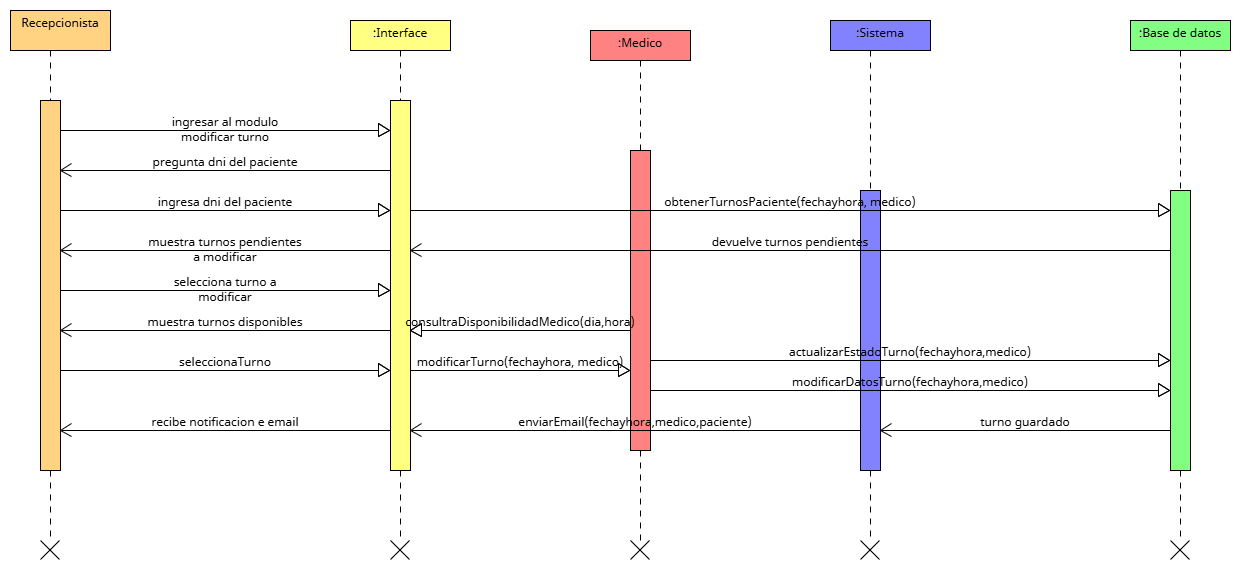
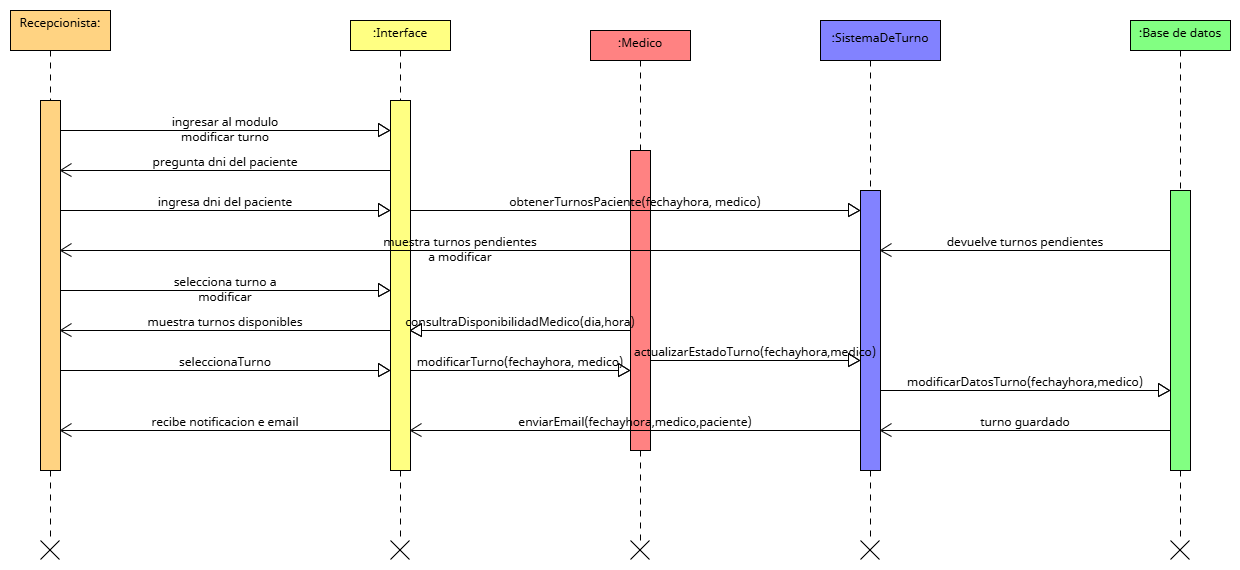
actividad final

diff --git a/DOOEncapsulamiento.md b/DOOEncapsulamiento.md
@@ -1,0 +1,87 @@
+# Encapsulamiento
+
+El encapsulamiento implica ocultar los atributos internos de una clase, exponiendo únicamente los métodos necesarios para interactuar con el objeto. Así, se protege el estado del objeto, se mejora la seguridad del sistema y se permite mayor control sobre los datos.
+
+**Responsabilidad Única (SRP):** Cada clase mantiene su responsabilidad bien definida.  
+**Abierto/Cerrado (OCP):** Se puede modificar internamente sin afectar al resto del sistema.  
+**Segregación de Interfaces (ISP):** Se exponen sólo los métodos necesarios, evitando interfaces infladas.  
+**Patrón Adapter:** El sistema accede a datos encapsulados a través de interfaces o métodos públicos.
+
+## Ejemplo en el proyecto
+
+Encapsulamiento se demuestra al mantener los datos sensibles privados y permitir su acceso/modificación sólo mediante métodos públicos.
+
+![Herencia](/img/DOOEncapsulamiento.png)
+
+- [Imagen](https://drive.google.com/file/d/16dFcXYDUgxTCkK3NoTwxJERw9iIU2WwP/view?usp=drive_link)
+
+## Ejemplo de Código
+
+    Clase Usuario {
+            privado nombreCompleto
+            privado documento
+            privado email
+            privado password
+            privado fechaNacimiento
+            privado telefono
+
+        metodo obtenerNombreCompleto() {
+            retornar nombreCompleto
+        }
+
+        metodo actualizarNombreCompleto(nuevoNombre) {
+            nombreCompleto = nuevoNombre
+        }
+
+        metodo obtenerEmail() {
+            retornar email
+        }
+
+        metodo actualizarEmail(nuevoEmail) {
+            si esValido(nuevoEmail) {
+                email = nuevoEmail
+            }
+        }
+
+        metodo obtenerTelefono() {
+            retornar telefono
+        }
+
+        metodo actualizarTelefono(nuevoTelefono) {
+            si esValido(nuevoTelefono) {
+                telefono = nuevoTelefono
+            }
+        }
+
+        metodo actualizarContacto(nuevoTelefono, nuevoEmail) {
+            actualizarTelefono(nuevoTelefono)
+            actualizarEmail(nuevoEmail)
+        }
+    }
+
+    Clase Paciente hereda Usuario {
+        metodo obtenerHistorial() {
+            // Retorna historial del paciente
+        }
+    }
+
+    Clase Medico hereda Usuario {
+        metodo obtenerDisponibilidad() {
+            // Retorna horarios disponibles
+        }
+    }
+
+    Clase Recepcionista hereda Usuario {
+        metodo confirmarTurno() {
+            // Confirma un turno en el sistema
+        }
+
+        metodo cancelarTurno() {
+            // Cancela un turno
+        }
+
+        metodo modificarTurno() {
+            // Modifica los datos de un turno
+        }
+
+    }

diff --git a/DOOHerencia.md b/DOOHerencia.md
@@ -1,0 +1,55 @@
+# Herencia
+
+La herencia permite que una clase hija reutilice atributos y métodos de una clase padre. Promueve la reutilización de código, la extensibilidad y la jerarquía de clases.
+
+**Sustitución de Liskov (LSP):** Las subclases Paciente, Medico y Paciente pueden usarse como Usuario sin romper el sistema.  
+**Responsabilidad Única (SRP):** Permite dividir responsabilidades comunes en Usuario y extenderlas de forma especializada.  
+**Abierto/Cerrado (OCP):** Se pueden crear nuevas clases hijas (ej: Administrador) sin modificar Usuario.  
+**Factory Method:** Al permitir crear distintas subclases de Turno, este patrón aprovecha la herencia para instanciar objetos de tipo TurnoPresencial, TurnoVirtual, etc.
+
+## Ejemplo en el proyecto
+
+La clase Usuario encapsula atributos comunes como nombreCompleto,documento, email, password,fechanacimiento,telefono y métodos como actualizarContacto(). Las subclases Recepcionista, Paciente y Medico heredan estas propiedades y agregan comportamientos específicos. Esto evita la repetición de código y permite reutilizar lógica centralizada.
+
+![Herencia](/img/DOOHerencia.png)
+
+- [Imagen](https://drive.google.com/file/d/1kDia9P6W5sv4KmdzHDFKuyJzxwQCbIbJ/view?usp=drive_link)
+
+## Ejemplo de pseudocódigo
+
+    Clase Usuario {
+        privado nombreCompleto
+        privado documento
+        privado email
+        privado password
+        privado fechanacimiento
+        privado telefono
+
+        metodo actualizarContacto(telefono, email){
+        }
+
+    }
+
+    Clase Paciente hereda Usuario {
+        metodo obtenerHistorial() {
+        }
+
+    }
+
+    Clase Medico hereda Usuario {
+        metodo obtenerDisponibilidad() {
+
+        }
+    }
+     Clase Recepcionista hereda Usuario {
+        metodo confirmarTurno() {
+        }
+        metodo cancelarTurno() {
+        }
+        metodo modificarTurno() {
+        }
+        metodo consultarHistorialPaciente() {
+        }
+        metodo consultarDIsponibilidadMedico() {
+        }
+    }

diff --git a/DOOAbstraccion.md b/DOOAbstraccion.md
@@ -1,0 +1,57 @@
+# Abstracción
+
+La abstracción se refiere a mostrar sólo lo esencial de un objeto, ocultando los detalles internos. A través de clases abstractas o interfaces, se define un contrato de comportamiento sin especificar su implementación concreta.
+
+**Responsabilidad Única (SRP):** Las clases se centran en una única tarea.  
+**Abierto/Cerrado (OCP):** Nuevas implementaciones se pueden agregar sin modificar las existentes.  
+**Inversión de Dependencias (DIP):** Las clases dependen de abstracciones, no de detalles concretos.  
+Strategy: Define una interfaz común para validar turnos que puede tener múltiples implementaciones.
+
+## Ejemplo en el proyecto
+
+Usuario es una clase abstracta que define los atributos y métodos comunes.  
+Las clases Paciente, Medico y Recepcionista heredan de Usuario, lo que representa la abstracción de cada una especializas el comportamiento sin duplicar la estructura común.  
+Sólo se muestran los atributos clave y métodos públicos para resaltar el principio de abstracción (mostrar lo esencial, ocultar lo interno).
+
+![Abstracción](/img/DOOAbstraccion.png)
+
+- [Imagen](https://drive.google.com/file/d/1bOvQc_yEBqxL2_lUIoeRXuFWKb0klYVE/view?usp=drive_link)
+
+## Ejemplo de Código
+
+    Clase Usuario {
+        privado nombreCompleto
+        privado documento
+        privado email
+        privado password
+        privado fechanacimiento
+        privado telefono
+
+        metodo actualizarContacto(telefono, email){
+        }
+
+    }
+
+    Clase Paciente hereda Usuario {
+        metodo obtenerHistorial() {
+        }
+
+    }
+
+    Clase Medico hereda Usuario {
+        metodo obtenerDisponibilidad() {
+
+        }
+    }
+     Clase Recepcionista hereda Usuario {
+        metodo confirmarTurno() {
+        }
+        metodo cancelarTurno() {
+        }
+        metodo modificarTurno() {
+        }
+        metodo consultarHistorialPaciente() {
+        }
+        metodo consultarDIsponibilidadMedico() {
+        }
+    }

diff --git a/diagramas_de_secuencias.md b/diagramas_de_secuencias.md
@@ -1,7 +1,7 @@
 ## Diagramas de Secuencias
 
-- [Diagrama de Secuencia - Registrar un médico - Registro de un médico exitoso](https://drive.google.com/file/d/1URqT_IRJ5Zc1W_ix7GSrwqj7Yistl8Np/view?usp=drive_link)
-- [Diagrama de Secuencia - Registrar un paciente - Registro de paciente exitoso](https://drive.google.com/file/d/1XXxzXLaeJCG0VIah9ZZpK2XmFEEIgZLs/view?usp=drive_link)
-- [Diagrama de Secuencia - Asignar un turno médico - Asignación de un turno exitiso](https://drive.google.com/file/d/19fu6tWouxiYFPgA26Lx_JST4Nv9rxUyu/view?usp=drive_link)
-- [Diagrama de Secuencia - Modificar turno - Modificación de turno exitoso](https://drive.google.com/file/d/17AnJ_vQBhktUvDU-R9jVeQ0L9F05-W1f/view?usp=drive_link)
-- [Diagrama de Secuencia - Consultar historial de turnos - Consulta de turnos exitosa](https://drive.google.com/file/d/13R5ZULAJRpIVBqblfiNMZie6ToITPY_Q/view?usp=drive_link)
+- [Diagrama de Secuencia - Registrar un médico - Registro de un médico exitoso](https://drive.google.com/file/d/1ioPZokf47DczYJTuHkE-HM0mKmd-Byyf/view?usp=drive_link)
+- [Diagrama de Secuencia - Registrar un paciente - Registro de paciente exitoso](https://drive.google.com/file/d/13tGdpk2-vVAtG6JEwq0cdgoD1HRZdyhY/view?usp=drive_link)
+- [Diagrama de Secuencia - Asignar un turno médico - Asignación de un turno exitiso](https://drive.google.com/file/d/1lQq3yenRkkpVWd6x-Ts3X4MLSebZxv9N/view?usp=drive_link)
+- [Diagrama de Secuencia - Modificar turno - Modificación de turno exitoso](https://drive.google.com/file/d/16YxnjkIUqy3Q4Glk6W9EgYt1EHnquGWd/view?usp=drive_link)
+- [Diagrama de Secuencia - Consultar historial de turnos - Consulta de turnos exitosa](https://drive.google.com/file/d/1x_7gAOOHt8sqnHLuKBZAwlwOByonjBCi/view?usp=drive_link)

diff --git a/DOOPolimorfismo.md b/DOOPolimorfismo.md
@@ -1,0 +1,34 @@
+# Polimorfismo
+
+El polimorfismo permite que objetos diferentes respondan al mismo mensaje con comportamientos distintos. Esto facilita extender comportamientos sin modificar el código del cliente que los utiliza.  
+**Sustitución de Liskov (LSP):** Las subclases pueden sustituir a la clase base sin errores.
+**Abierto/Cerrado (OCP):** Nuevas variantes se incorporan sin tocar el código existente.
+**Factory Method:** Se basa en polimorfismo para instanciar diferentes tipos de Turno.
+
+## Ejemplo en el proyecto
+
+Aunque actualmente hay un solo tipo de Turno, el diseño permite extenderlo fácilmente. Si en el futuro se agrega TurnoVirtual, el sistema puede notificar de forma diferente sin modificar la lógica principal.
+
+![Polimorfismo](/img/DOOPolimorfismo.png)
+
+- [Imagen](https://drive.google.com/file/d/10eYW86xhXZaXLTUxPhnN5yLVDWcxwL-A/view?usp=drive_link)
+
+## Ejemplo de Código
+
+    Clase Turno {
+        metodo crearTurno() {
+
+        }
+    }
+
+    Clase TurnoVirtual hereda Turno {
+        metodo crearTurno() {
+            enviarEmail("Turno virtual")
+        }
+    }
+
+    Clase SobreTurno hereda Turno {
+        metodo crearTurno() {
+            enviarEmail("Este es un sobreturno")
+        }
+    }

diff --git a/diagramasUML.md b/diagramasUML.md
@@ -4,4 +4,4 @@
 - [Escenarios de Casos de Uso](escenarios_de_casos_de_uso.md)
 - [Diagramas de actividades](diagramas_de_actividades.md)
 - [Diagramas de secuencias](diagramas_de_secuencias.md)
-- [Diagrama de clases](https://drive.google.com/file/d/1TRtxBSFFAqPXqEXWDSd6WKlntAxjLXBK/view?usp=drive_link)
+- [Diagrama de clases](https://drive.google.com/file/d/150DpiFSP4DSdcqWpgnWdMt1EgBVHl20S/view?usp=drive_link)

diff --git a/anexos.md b/anexos.md
@@ -7,3 +7,4 @@
 - [Anexo - Aplicación de Patrón de Diseño creacional - Factory Method](patronDeDisenoCreacional.md)
 - [Anexo - Aplicación de Patrón de Diseño estructural - Adapter](patronDeDisenoEstructural.md)
 - [Anexo - Aplicación de Patrón de Diseño de comportamiento - Strategy](patronDeDisenoDeComportamiento.md)
+- [Anexo - Fundamentos del Diseño Orientado a Objetos ](fundamentosDOO.md)

diff --git a/fundamentosDOO.md b/fundamentosDOO.md
@@ -1,0 +1,9 @@
+# Anexo - Fundamentos del Diseño Orientado a Objetos
+
+Una breve explicación de cuáles son los pilares o fundamentos del diseño orientado
+a objetos.
+
+- [Abstracción](DOOAbstraccion.md)
+- [Encapsulamiento](DOOEncapsulamiento.md)
+- [Herencia](DOOHerencia.md)
+- [Polimorfismo](DOOPolimorfismo.md)
